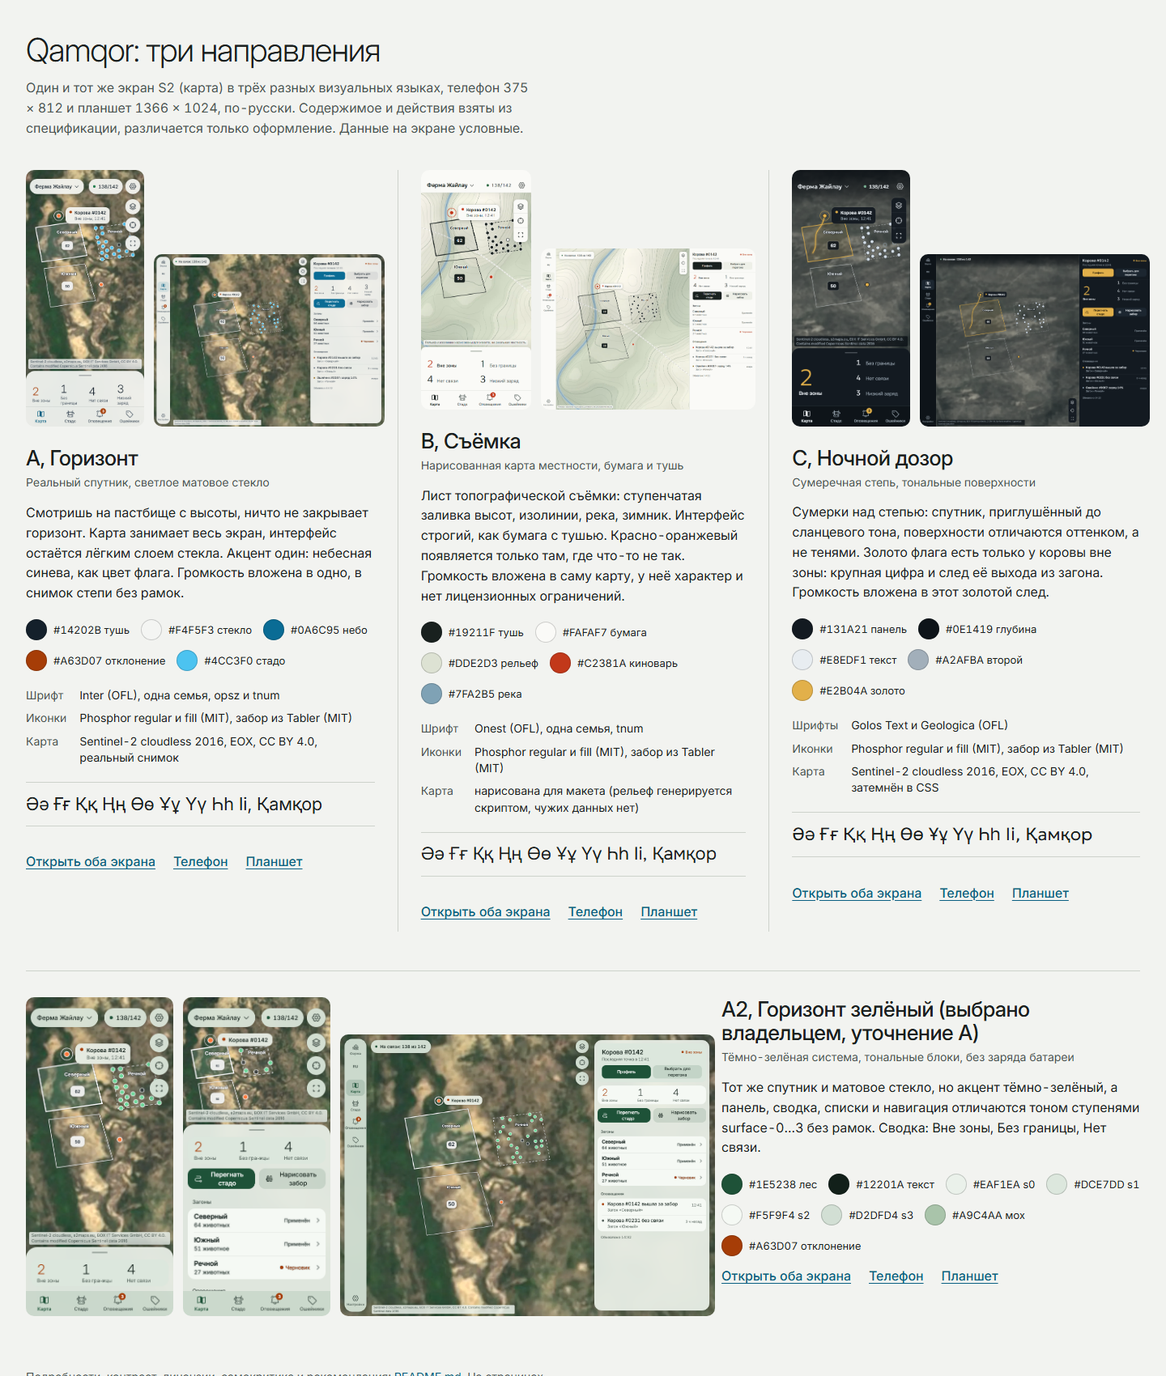
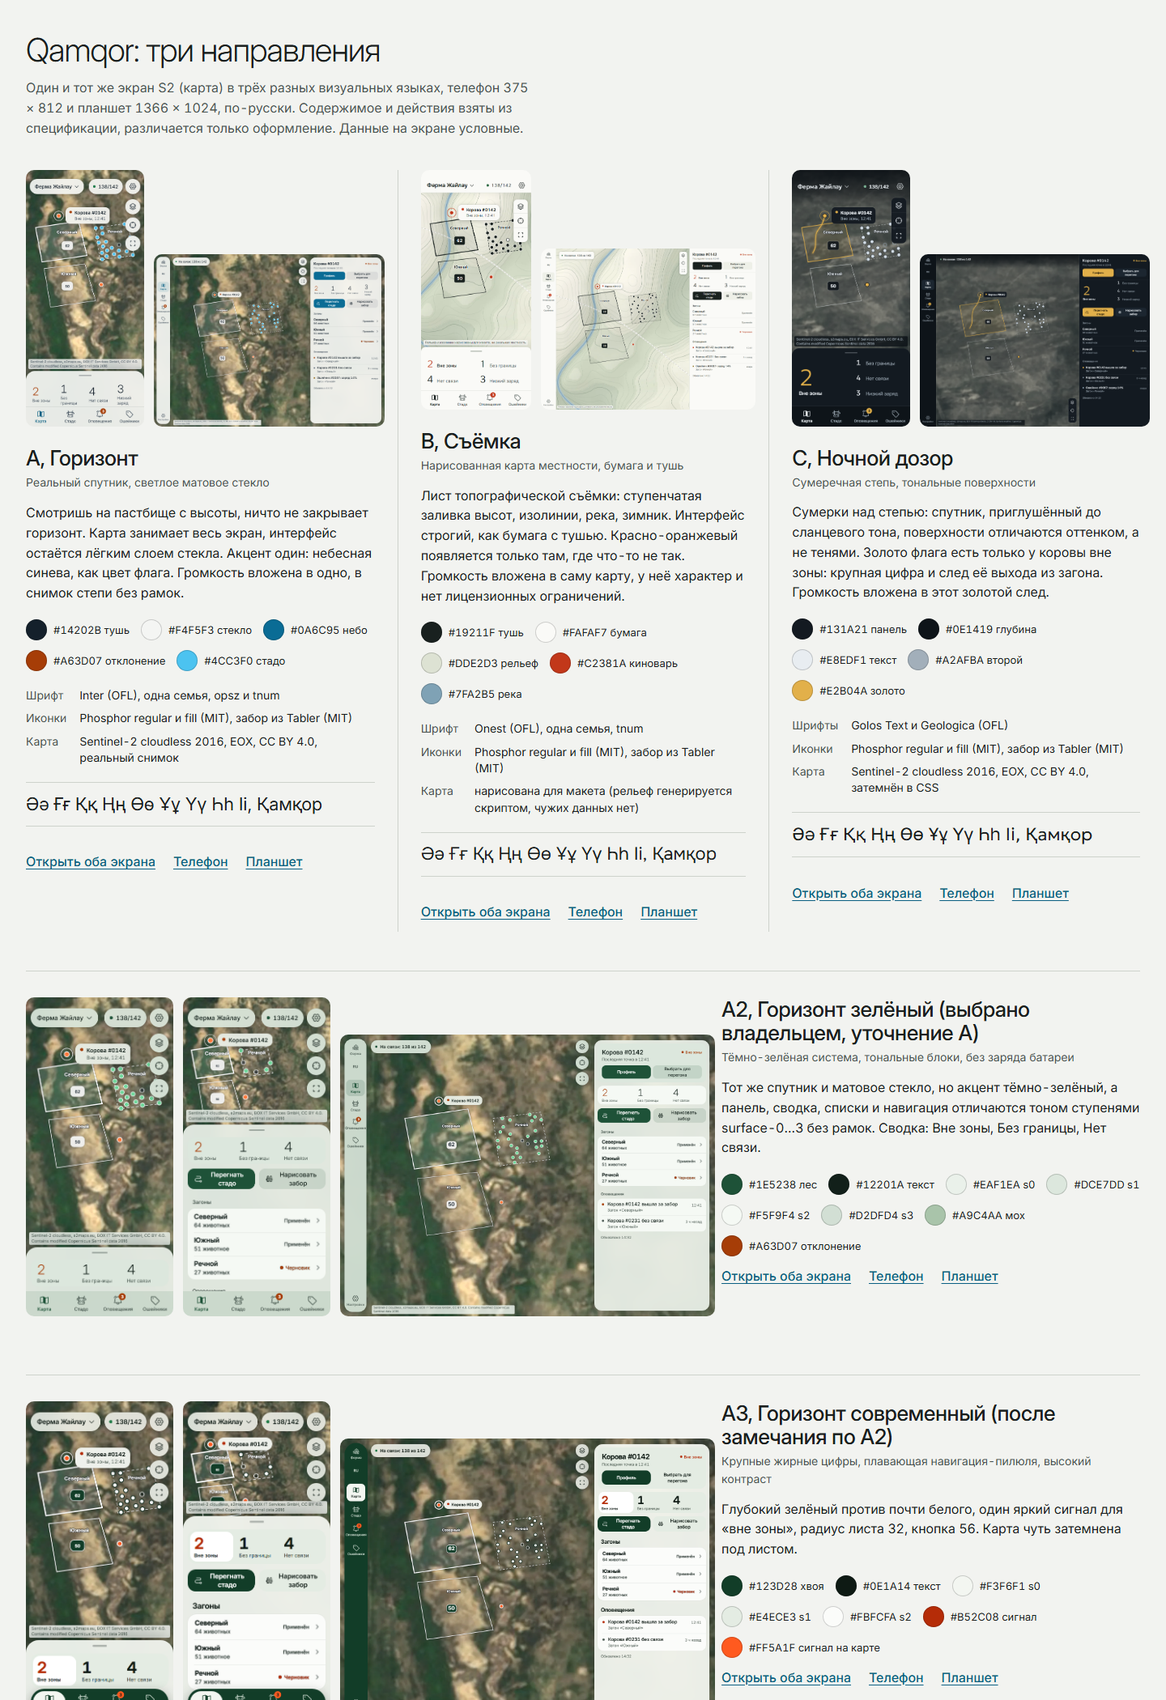
docs: direction A3 modern high-contrast

diff --git a/docs/frontend/directions/assets/a3.css b/docs/frontend/directions/assets/a3.css
@@ -1,0 +1,238 @@
+/* Direction A: Горизонт. Satellite full bleed, light frosted glass chrome, one sky-blue accent. Inter only. */
+@font-face{font-family:"QInter";src:url("fonts/Inter.woff") format("woff");font-weight:100 900;font-style:normal;font-display:swap}
+:root{color-scheme:light}
+body{background:#DDE0DD;font-family:"QInter","Inter",system-ui,sans-serif}
+.scr{
+  --font:"QInter","Inter",system-ui,sans-serif;
+  --map-bg:#5d6a4a;
+  --text:#14202B; --text2:#44525F; --hair:rgba(20,32,43,.12);
+  --glass:rgba(246,247,245,.92); --glass-solid:#F4F5F3;
+  --accent:#0A6C95; --accent-ink:#085F82; --on-accent:#FFFFFF;
+  --warn:#A63D07; --low:#8A5A00; --offline:#566371;
+  --focus:0 0 0 2px #FFFFFF,0 0 0 4.5px #0B3C57;
+  --inset:20px;
+  font-optical-sizing:auto;
+}
+/* material */
+.farmbtn,.connbtn,.gear,.ctl,.selchip,.connlong,.rail,.panel,.sheet,.tabs{background:var(--glass);-webkit-backdrop-filter:blur(24px) saturate(1.5);backdrop-filter:blur(24px) saturate(1.5)}
+@media (prefers-reduced-transparency:reduce){.farmbtn,.connbtn,.gear,.ctl,.selchip,.connlong,.rail,.panel,.sheet,.tabs{background:var(--glass-solid);-webkit-backdrop-filter:none;backdrop-filter:none}}
+.farmbtn,.connbtn,.gear,.ctl,.connlong{box-shadow:0 4px 18px rgba(10,20,30,.22),0 0 0 .5px rgba(10,20,30,.10)}
+.farmbtn{border-radius:24px;font-size:16px;line-height:24px;font-weight:500;letter-spacing:-.005em}
+.connbtn,.connlong{border-radius:24px;font-size:15px;font-weight:500}
+.connlong{font-size:16px}
+.gear,.ctl{border-radius:24px;color:var(--text)}
+.mapctl{gap:10px}
+.sd.ok{color:#1C7C4A}
+.farmbtn:hover,.connbtn:hover,.gear:hover,.ctl:hover,.connlong:hover{background:rgba(255,255,255,.96)}
+.ctl:active,.gear:active{transform:scale(.96)}
+.ctl[disabled],.btn[disabled]{opacity:.45;cursor:not-allowed}
+
+/* sheet and tabs: one slab */
+.sheet{border-radius:28px 28px 0 0;box-shadow:0 -10px 40px rgba(10,20,30,.20)}
+.tabs{border-top:1px solid var(--hair)}
+.grab i{background:rgba(20,32,43,.28)}
+.grab:hover i{background:rgba(20,32,43,.46)}
+.stats{padding:0 8px}
+.stat{border-radius:14px}
+.stat:hover{background:rgba(20,32,43,.05)}
+.stat .n{font-size:34px;line-height:38px;font-weight:300;letter-spacing:-.025em;font-variation-settings:"opsz" 32;color:var(--text)}
+.stat .l{font-size:12.5px;line-height:16px;color:var(--text2)}
+.stat.is-dev .n{color:var(--warn)}
+.actions-wrap{padding:8px 20px 4px}
+.btn{border-radius:16px;font-size:16px;line-height:22px;font-weight:500}
+.btn.primary{background:var(--accent);color:var(--on-accent)}
+.btn.primary:hover{background:#085A7B}
+.btn.quiet{background:rgba(20,32,43,.07);color:var(--text)}
+.btn.quiet:hover{background:rgba(20,32,43,.12)}
+.sec{padding:22px 20px 6px;font-size:13px;line-height:18px;font-weight:600;color:var(--text2);letter-spacing:.005em}
+.row:hover{background:rgba(20,32,43,.045)}
+.row .t{font-size:17px;line-height:24px;font-weight:500;color:var(--text)}
+.row .s{font-size:14px;line-height:20px;color:var(--text2)}
+.row .st{font-size:13px;color:var(--text2)}
+.row.pen .st .sd{display:none}
+.row.pen.is-draft .st{color:var(--warn)}
+.row.pen.is-draft .st .sd{display:inline-block}
+.row .chev{color:var(--text2);margin-right:-4px}
+.alert.k-out .ad{color:var(--warn)} .alert.k-off .ad{color:var(--offline)} .alert.k-low .ad{color:var(--low)}
+.alert .ad{margin-top:-18px}
+.tm{font-size:13px;line-height:20px;color:var(--text2)}
+.updated{font-size:13px;line-height:18px;color:var(--text2)}
+.nav-i{color:var(--text2);font-weight:500}
+.nav-i.is-cur{color:var(--accent-ink);font-weight:600}
+.badge{background:var(--warn);color:#fff}
+.selchip{border-radius:14px;box-shadow:0 4px 18px rgba(10,20,30,.28)}
+.selchip .t{font-size:14px;line-height:20px;font-weight:600;color:var(--text)}
+.selchip .s{font-size:12.5px;line-height:16px;color:var(--text2)}
+.selchip .sd.out{background:var(--warn)}
+.attrib{background:rgba(246,247,245,.84);color:var(--text2)}
+
+/* tablet */
+.tablet{--panel-w:420px;--panel-m:20px}
+.rail{left:16px;top:16px;bottom:16px;width:80px;border-radius:28px;box-shadow:0 4px 24px rgba(10,20,30,.22),0 0 0 .5px rgba(10,20,30,.10);padding:12px 0;color:var(--text2)}
+.rail-farm,.rail-set,.rail-lang{color:var(--text2);border-radius:16px}
+.rail-farm:hover,.rail-set:hover,.rail-lang:hover,.rail-nav .nav-i:hover{background:rgba(20,32,43,.06)}
+.rail-nav .nav-i{border-radius:16px;width:68px}
+.rail-nav .nav-i.is-cur{background:rgba(10,108,149,.11)}
+.rail-farm{width:68px}
+.rail-set{width:68px}
+.tablet .attrib{left:116px}
+.connlong{left:112px}
+.tablet .panel{top:20px;bottom:20px;right:20px;width:420px;border-radius:28px;box-shadow:0 10px 48px rgba(10,20,30,.28),0 0 0 .5px rgba(10,20,30,.10)}
+.tablet .mapctl{right:460px}
+.mini{padding:22px 20px 14px}
+.mini .t{font-size:22px;line-height:28px;font-weight:600;letter-spacing:-.015em}
+.mini .s{margin-top:2px;font-size:14px;line-height:20px;color:var(--text2)}
+.mini .st{display:flex;align-items:center;gap:6px;font-size:13px;font-weight:500;color:var(--warn)}
+.btn.small{font-size:15px;border-radius:14px}
+.tablet .stats{padding:4px 12px}
+.panel-body{padding-bottom:12px}
+
+/* map layers */
+.layers image{filter:saturate(.88) contrast(1.06) brightness(1.16)}
+.pen{fill:rgba(255,255,255,.05);stroke:#fff;stroke-width:1.5;filter:drop-shadow(0 0 1.2px rgba(6,12,18,.65))}
+.pen.is-active{fill:rgba(255,255,255,.17);stroke-width:2.75}
+.pen.is-draft{stroke-dasharray:7 5;stroke-width:1.5}
+.dot{fill:#4CC3F0;stroke:#fff;stroke-width:1.5}
+.dot.off{fill:rgba(32,42,52,.6);stroke-width:1.25}
+.dot.out{fill:#FF7A3D;stroke:#fff;stroke-width:1.75}
+.cluster rect{fill:rgba(246,247,245,.94);filter:drop-shadow(0 1px 3px rgba(6,12,18,.4))}
+.cluster text{fill:#14202B;font:600 1em "QInter",sans-serif;font-family:"QInter","Inter",sans-serif;font-weight:600}
+.sel-ring{fill:none;stroke:#fff;stroke-width:2.25;filter:drop-shadow(0 0 2px rgba(6,12,18,.6))}
+.penlabel{fill:#fff;stroke:rgba(8,16,24,.62);stroke-width:3.4px;paint-order:stroke;stroke-linejoin:round;font-family:"QInter","Inter",sans-serif;font-weight:600;letter-spacing:.01em;pointer-events:none}
+.trail,.trail-glow{display:none}
+
+/* ===== A2: dark-green system, tonal ladder, no battery ===== */
+.scr{
+  --text:#12201A; --text2:#42524A; --hair:rgba(18,32,26,.11);
+  --s0:#EAF1EA;  /* sheet / panel base */
+  --s1:#DCE7DD;  /* summary block, top chrome, mini card (deeper) */
+  --s2:#F5F9F4;  /* list groups (lighter, reads as raised) */
+  --s3:#D2DFD4;  /* navigation (deepest) */
+  --glass:rgba(234,241,234,.92); --glass-solid:#EAF1EA;
+  --accent:#1E5238; --accent-ink:#1E5238; --on-accent:#FFFFFF; --moss:#A9C4AA;
+  --warn:#A63D07; --offline:#52605A;
+  --focus:0 0 0 2px #FFFFFF,0 0 0 4.5px #12301F;
+}
+.farmbtn,.connbtn,.gear,.ctl,.connlong{background:rgba(220,231,221,.93)}
+.farmbtn:hover,.connbtn:hover,.gear:hover,.ctl:hover,.connlong:hover{background:rgba(236,244,236,.98)}
+@media (prefers-reduced-transparency:reduce){.farmbtn,.connbtn,.gear,.ctl,.connlong{background:var(--s1)}.tabs,.rail{background:var(--s3)}}
+.sheet,.panel{background:var(--glass)}
+.tabs,.rail{background:rgba(210,223,212,.95);border-top:0}
+.sd.ok{color:#1E5238}
+.stats{grid-template-columns:repeat(3,1fr);background:var(--s1);border-radius:20px;margin:0 12px;padding:0 4px}
+.stat .n{color:var(--text)}
+.stat:hover{background:rgba(30,82,56,.08)}
+.actions-wrap{padding:12px 12px 4px}
+.btn.primary{background:var(--accent)}
+.btn.primary:hover{background:#17432D}
+.btn.quiet{background:rgba(30,82,56,.13)}
+.btn.quiet:hover{background:rgba(30,82,56,.2)}
+.sec{padding:20px 24px 8px}
+.list{background:var(--s2);border-radius:18px;margin:0 12px;overflow:hidden}
+.list li+li::before{left:16px}
+.row{padding:8px 16px}
+.row:hover{background:rgba(30,82,56,.07)}
+.updated{padding:12px 24px 20px}
+.nav-i.is-cur{color:var(--accent-ink)}
+.nav-i.is-cur .nav-ic svg{color:var(--accent)}
+.rail-nav .nav-i.is-cur{background:rgba(30,82,56,.15)}
+.badge{background:var(--warn)}
+.selchip{background:var(--glass)}
+.attrib{background:rgba(234,241,234,.86)}
+.grab i{background:rgba(18,32,26,.3)}
+.tablet .panel{background:var(--glass)}
+.mini{background:var(--s1);margin:12px 12px 4px;border-radius:20px;padding:18px 16px 14px}
+.tablet .stats{background:var(--s2);margin:8px 12px 4px;padding:0 4px}
+.tablet .actions-wrap{padding-top:10px}
+.dot{fill:#6FD79A}
+.pen.is-active{fill:rgba(190,235,200,.2)}
+
+/* ===== A3: modern, high contrast, floating pill nav ===== */
+.scr{
+  --text:#0E1A14; --text2:#34443A; --hair:rgba(14,26,20,.10);
+  --s0:#F3F6F1; --s1:#E4ECE3; --s2:#FBFCFA; --s3:#123D28;
+  --glass:rgba(243,246,241,.94); --glass-solid:#F3F6F1;
+  --accent:#123D28; --accent-ink:#123D28; --on-accent:#FFFFFF;
+  --warn:#B52C08; --offline:#4A5A51;
+  --focus:0 0 0 2px #F3F6F1,0 0 0 4.5px #0E1A14;
+  --inset:16px;
+}
+.scr[data-sheet=peek]{--sheet-h:204px}
+.scr[data-sheet=half]{--sheet-h:520px}
+.map::after{content:"";position:absolute;left:0;right:0;bottom:0;height:46%;background:linear-gradient(rgba(14,26,20,0),rgba(14,26,20,.30));pointer-events:none}
+.tablet .map::after{height:0}
+.layers image{filter:saturate(.86) contrast(1.06) brightness(1.04)}
+/* chrome */
+.farmbtn,.connbtn,.gear,.ctl,.connlong{background:rgba(243,246,241,.86);-webkit-backdrop-filter:blur(30px) saturate(1.6);backdrop-filter:blur(30px) saturate(1.6);color:var(--text)}
+.farmbtn:hover,.connbtn:hover,.gear:hover,.ctl:hover,.connlong:hover{background:rgba(251,252,250,.98)}
+.farmbtn{font-size:17px;font-weight:600;letter-spacing:-.02em}
+.connbtn,.connlong{font-weight:600;font-size:16px;letter-spacing:-.01em}
+.sd.ok{color:#1E7A45}
+/* sheet */
+.sheet{bottom:0;height:var(--sheet-h);border-radius:32px 32px 0 0;background:var(--glass);box-shadow:0 -12px 48px rgba(8,18,12,.28)}
+.phone .attrib{bottom:calc(var(--sheet-h) + 6px)}
+.sheet-body{padding-bottom:104px}
+.grab i{width:36px;height:5px;background:rgba(14,26,20,.28)}
+.stats{background:var(--s1);border-radius:24px;margin:2px 12px 0;padding:6px;gap:4px}
+.stat{border-radius:18px;align-items:flex-start;padding:8px 10px;min-height:76px;justify-content:flex-start;gap:0}
+.stat .n{font-size:40px;line-height:44px;font-weight:700;letter-spacing:-.045em;font-variation-settings:"opsz" 32;color:var(--text)}
+.stat .l{font-size:13px;line-height:16px;font-weight:500;color:var(--text2)}
+.stat.is-dev{background:#FFFFFF}
+.stat.is-dev .n{color:var(--warn)}
+.stat.is-dev .l{color:var(--text);font-weight:600}
+.stat:hover{background:rgba(255,255,255,.7)}
+/* actions */
+.actions-wrap{padding:14px 12px 2px}
+.btn{min-height:56px;border-radius:20px;font-size:17px;font-weight:600;letter-spacing:-.01em}
+.btn.primary{background:var(--accent);color:#fff}
+.btn.primary:hover{background:#0A2E1E}
+.btn.quiet{background:var(--s1);color:var(--text)}
+.btn.quiet:hover{background:#D6E2D5}
+.btn.small{min-height:52px;border-radius:18px;font-size:16px}
+/* lists */
+.sec{padding:22px 24px 8px;font-size:20px;line-height:26px;font-weight:700;letter-spacing:-.025em;color:var(--text)}
+.list{background:var(--s2);border-radius:22px;margin:0 12px;box-shadow:0 0 0 1px rgba(14,26,20,.04)}
+.row{padding:8px 18px;min-height:64px}
+.row .t{font-size:17px;font-weight:600;letter-spacing:-.015em}
+.row .s{font-size:14px;color:var(--text2)}
+.row .st{font-size:13px;font-weight:500;color:var(--text2)}
+.row.pen.is-draft .st{color:var(--warn);font-weight:600}
+.row:hover{background:rgba(18,61,40,.06)}
+.tm{color:var(--text2);font-size:13px}
+.updated{padding:10px 24px 8px;color:var(--text2)}
+/* floating pill nav */
+.tabs{left:12px;right:12px;bottom:12px;height:68px;border-radius:34px;background:var(--s3);-webkit-backdrop-filter:none;backdrop-filter:none;box-shadow:0 10px 30px rgba(8,18,12,.35);padding:6px;gap:2px;border:0}
+.nav-i{color:#C9D8CC;font-weight:500;border-radius:28px}
+.nav-i:hover{background:rgba(255,255,255,.08)}
+.nav-i.is-cur{background:#F3F6F1;color:#0E1A14;font-weight:600}
+.nav-i.is-cur .nav-ic svg{color:#123D28}
+.nav-l{font-size:12px}
+.badge{background:#FF5A1F;color:#0E1A14;font-weight:700;top:-6px}
+.nav-i.is-cur .badge{color:#0E1A14}
+.selchip{background:rgba(243,246,241,.96);border-radius:16px}
+.selchip .t{font-weight:700;letter-spacing:-.01em}
+.selchip .sd.out{background:var(--warn)}
+.attrib{background:rgba(243,246,241,.88);color:var(--text2)}
+/* tablet */
+.rail{left:16px;top:16px;bottom:16px;width:84px;border-radius:42px;background:var(--s3);-webkit-backdrop-filter:none;backdrop-filter:none;box-shadow:0 10px 30px rgba(8,18,12,.35);color:#C9D8CC}
+.rail-farm,.rail-set,.rail-lang{color:#C9D8CC}
+.rail-farm:hover,.rail-set:hover,.rail-lang:hover{background:rgba(255,255,255,.08)}
+.rail-nav .nav-i{width:68px;min-height:64px}
+.rail-nav .nav-i.is-cur{background:#F3F6F1}
+.tablet .panel{border-radius:32px;background:var(--glass);box-shadow:0 14px 56px rgba(8,18,12,.32)}
+.mini{background:var(--s1);margin:12px 12px 4px;border-radius:24px;padding:18px 16px 14px}
+.mini .t{font-size:26px;line-height:32px;font-weight:700;letter-spacing:-.03em}
+.mini .st{font-size:14px;font-weight:600;color:var(--warn)}
+.tablet .stats{background:var(--s1);margin:8px 12px 2px}
+.tablet .sheet-body,.tablet .panel-body{padding-bottom:12px}
+.tablet .tabs{display:none}
+/* map data: clearly visible on grass */
+.pen{stroke-width:2;fill:rgba(255,255,255,.04)}
+.pen.is-active{stroke-width:3.25;fill:rgba(255,255,255,.14)}
+.dot{fill:#FFFFFF;stroke:#0F2A1C;stroke-width:2}
+.dot.off{fill:rgba(14,26,20,.55);stroke:#FFFFFF;stroke-width:1.5}
+.dot.out{fill:#FF5A1F;stroke:#FFFFFF;stroke-width:2.5}
+.sel-ring{stroke:#FFFFFF;stroke-width:2.5}
+.cluster rect{fill:#123D28;filter:drop-shadow(0 1px 3px rgba(6,12,18,.45));stroke:#FFFFFF;stroke-width:1.5px}
+.cluster text{fill:#FFFFFF;font-weight:700}
+.farmbtn{max-width:226px}.connbtn{padding:0 12px}

diff --git a/docs/frontend/directions/index.html b/docs/frontend/directions/index.html
@@ -90,6 +90,15 @@ dt{color:var(--ink2)}dd{margin:0}
 <div class="links"><a href="a2-horizon-green.html">Открыть оба экрана</a><a href="a2-horizon-green.html?device=phone">Телефон</a><a href="a2-horizon-green.html?device=tablet">Планшет</a></div>
 </div></section>
 
+<section class="a2" aria-labelledby="ha3">
+<div class="shots"><img class="ph" src="shots/a3-phone-peek.png" alt="Направление A3 на телефоне"><img class="ph" src="shots/a3-phone-half.png" alt="A3, панель наполовину"><img class="tb" src="shots/a3-tablet.png" alt="Направление A3 на планшете"></div>
+<div>
+<h2 id="ha3">A3, Горизонт современный (после замечания по A2)</h2>
+<p class="sub">Крупные жирные цифры, плавающая навигация-пилюля, высокий контраст</p>
+<p class="idea">Глубокий зелёный против почти белого, один яркий сигнал для «вне зоны», радиус листа 32, кнопка 56. Карта чуть затемнена под листом.</p>
+<div class="sw"><span><i style="background:#123D28"></i>#123D28 хвоя</span><span><i style="background:#0E1A14"></i>#0E1A14 текст</span><span><i style="background:#F3F6F1"></i>#F3F6F1 s0</span><span><i style="background:#E4ECE3"></i>#E4ECE3 s1</span><span><i style="background:#FBFCFA"></i>#FBFCFA s2</span><span><i style="background:#B52C08"></i>#B52C08 сигнал</span><span><i style="background:#FF5A1F"></i>#FF5A1F сигнал на карте</span></div>
+<div class="links"><a href="a3-horizon-modern.html">Открыть оба экрана</a><a href="a3-horizon-modern.html?device=phone">Телефон</a><a href="a3-horizon-modern.html?device=tablet">Планшет</a></div>
+</div></section>
 <p class="note">Подробности, контраст, лицензии, самокритика и рекомендация: <a href="README.md">README.md</a>. На страницах направлений панель телефона переключается нажатием на ручку. Нажатия по остальным элементам ничего не делают, это макет только одного экрана.</p>
 </div>
 </body>

diff --git a/docs/frontend/directions/a3-horizon-modern.html b/docs/frontend/directions/a3-horizon-modern.html
@@ -1,0 +1,25 @@
+<!doctype html>
+<html lang="ru">
+<head>
+<meta charset="utf-8">
+<meta name="viewport" content="width=device-width, initial-scale=1">
+<title>Направление A3, Горизонт современный: карта (S2)</title>
+<link rel="stylesheet" href="assets/base.css">
+<link rel="stylesheet" href="assets/a3.css">
+</head>
+<body>
+<div class="viewer-bar"><a href="index.html">Все направления</a><span>A3, Горизонт современный. Плавающая навигация, крупные цифры, контраст.</span><a href="?device=phone">Только телефон</a><a href="?device=tablet">Только планшет</a></div>
+<main id="stage"></main>
+<script src="assets/icons.js"></script>
+<script src="assets/screen.js"></script>
+<script>
+QS.mount({
+  layers: '<image href="assets/img/sentinel2-ili.webp" x="0" y="0" width="1800" height="1800" preserveAspectRatio="none"/>',
+  cam: { phone: { peek: { x: 715, y: 372, scale: 0.68 }, half: { x: 713, y: 341, scale: 0.45 } }, tablet: { x: 555, y: 375, scale: 1.15 } },
+  iw: { btn: "regular", ctl: "regular", nav: "regular", navOn: "fill" },
+  chev: true, noBattery: true, trail: false, clusterRadius: 9,
+  attrib: 'Sentinel-2 cloudless, s2maps.eu, EOX IT Services GmbH, CC BY 4.0. Contains modified Copernicus Sentinel data 2016'
+});
+</script>
+</body>
+</html>

diff --git a/docs/frontend/directions/README.md b/docs/frontend/directions/README.md
@@ -137,6 +137,14 @@ Status: draft
 
 Не проверено: A2 на других языках, состояния, реальные устройства; точки стада на реальном снимке (мятно-зелёные точки близки по тону к растительности, держатся на белом кольце и размере, проверить на живом снимке).
 
+## A3, «Горизонт современный» (замечание владельца к A2: выглядит как Android пятилетней давности)
+
+Файл: `a3-horizon-modern.html` (`assets/a3.css`, скриншоты `shots/a3-*.png`). Язык iOS 26 и современных премиальных приложений: крупные жирные числа Inter (40/44, вес 700, трекинг -0.045em), заголовки групп 20/26 вес 700, лист радиус 32 со вложенными 24, 22 и 18, плавающая навигация-пилюля (телефон и рейл на планшете) тёмно-зелёная, выбранный пункт светлой таблеткой, основная кнопка 56, сводка сегментами с белой плиткой у «Вне зоны». Без батареи; Phosphor; атрибуция Sentinel; тональные блоки сохранены (s0 `#F3F6F1` основа, s1 `#E4ECE3` сводка и мини-карточка, s2 `#FBFCFA` списки, s3 `#123D28` навигация). Карта под листом приглушена градиентом 30%. Точки стада белые с тёмно-зелёным кольцом 2 px, вне зоны `#FF5A1F` с белым кольцом, кластеры тёмно-зелёные с белым числом.
+
+Палитра: основной `#123D28` (hover `#0A2E1E`), текст `#0E1A14`, вторичный `#34443A`, сигнал `#B52C08` (на карте `#FF5A1F`), нет связи `#4A5A51`. Не чисто белое и не чисто чёрное.
+
+Контраст (`assets/build/contrast_a3.py`, `contrast-result-a3.txt`): 0 провалов, минимум для текста среди всех пар ступеней и стекла над яркой и тёмной подложкой см. файл; тушь на s0 16.37:1, вторичный на листе над тёмной подложкой 8.63:1 (AAA для основного текста), белый на кнопке 12.18:1. Не проверено: другие языки и состояния, реальные устройства, тёмная тема, видимость белых точек на светлом песке (держатся на тёмном кольце, глазами проверено на этом снимке).
+
 ## Проверки, которые выполнены и не выполнены
 
 Выполнено (с доказательствами):
